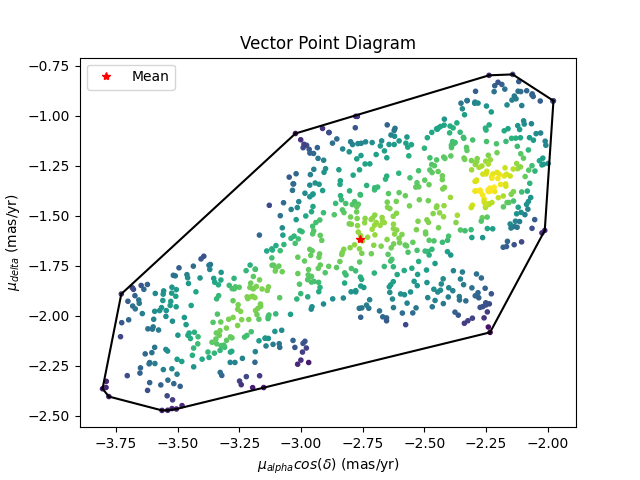
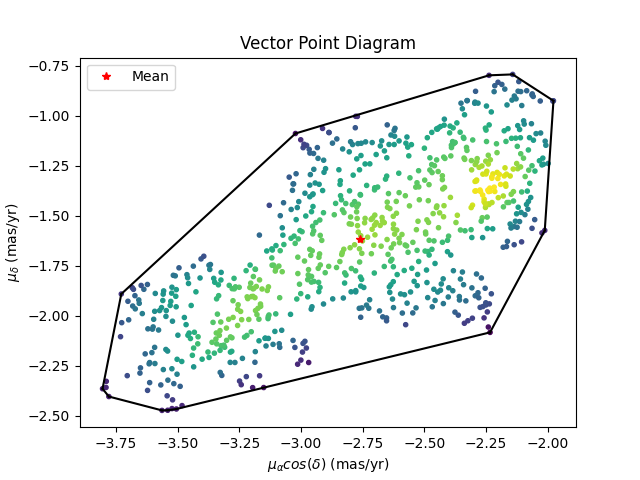
Images updated

Changed region(s): [[0.4062, 0.9375, 0.625, 1.0], [0.0, 0.4062, 0.0312, 0.625]]

diff --git a/view.py b/view.py
@@ -138,8 +138,8 @@ def main():
     hull = ConvexHull(s)
     plt.scatter(x, y, c=z, marker='.') # plotting
     plt.plot(np.mean(x), np.mean(y), 'r*', label='Mean')
-    plt.xlabel(r'$\mu_{alpha} cos(\delta)$ (mas/yr)')
-    plt.ylabel(r'$\mu_{delta}$ (mas/yr)')
+    plt.xlabel(r'$\mu_{\alpha} cos(\delta)$ (mas/yr)')
+    plt.ylabel(r'$\mu_{\delta}$ (mas/yr)')
     for simplex in hull.simplices:
         plt.plot(s[simplex, 0], s[simplex, 1], 'k-')
     plt.legend(loc='best')

diff --git a/radius.py b/radius.py
@@ -155,7 +155,7 @@ def main():
     plt.axhline(eta_max - 3 * s, color='r', linestyle='--', label='Selection Threshold')
     plt.legend(loc='best')
     plt.xlabel(r'$R_s$' + ' (arcmin)')
-    plt.ylabel(r'$\eta_{max}$' + ' (deg)')
+    plt.ylabel(r'$\eta_{max}$')
     plt.title('Transition Parameter per Cluster Radii')
     plt.show()
 
